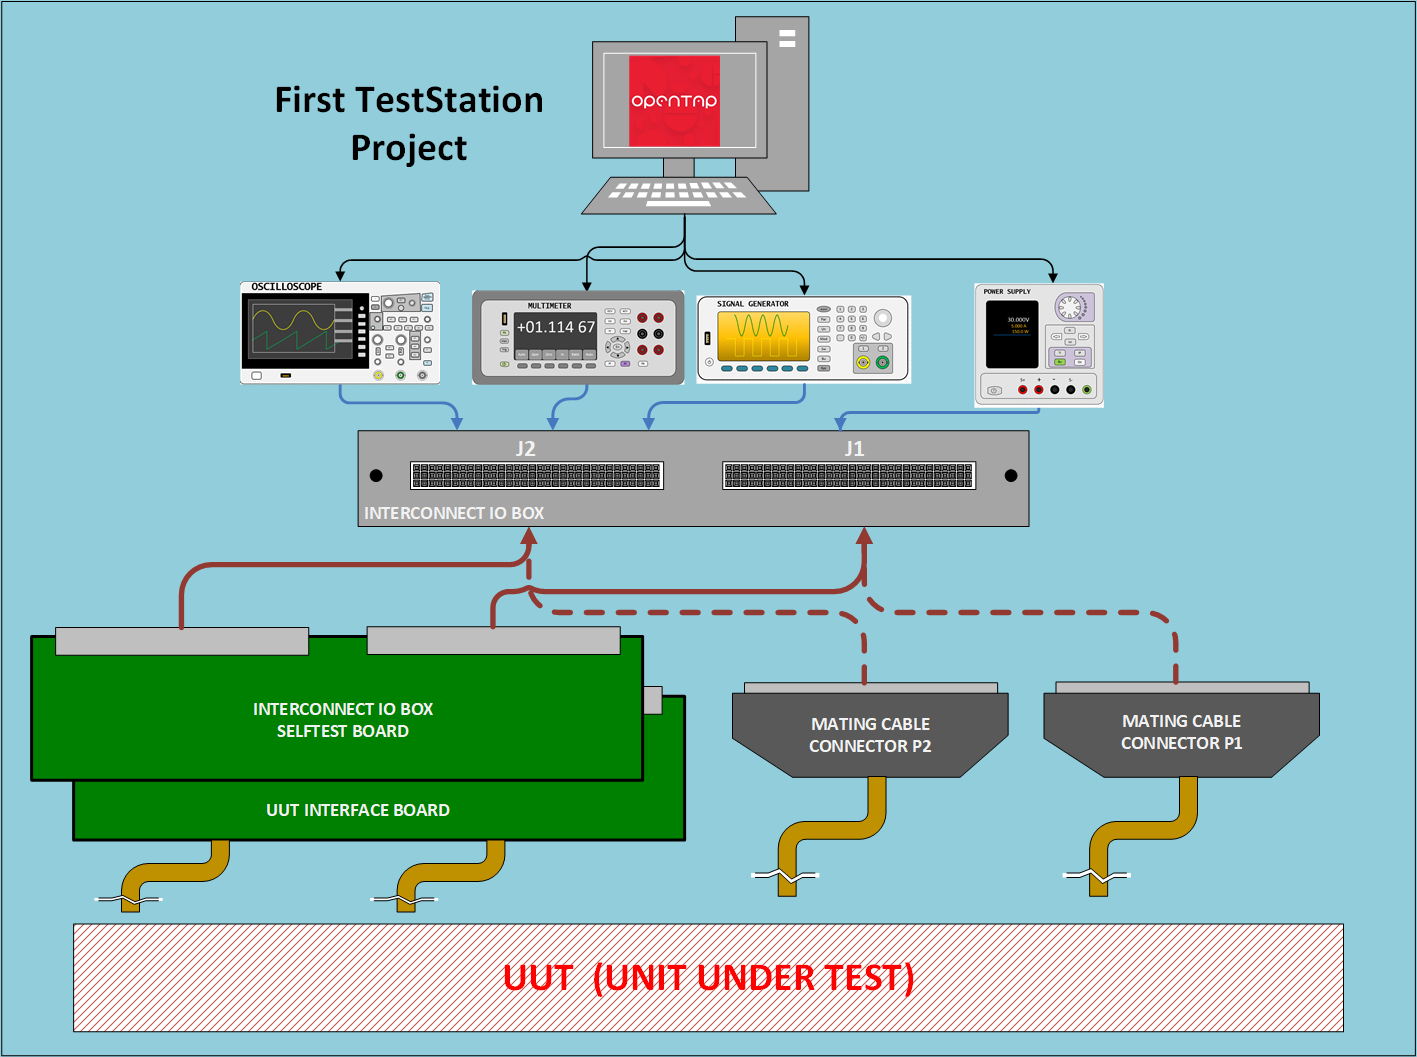
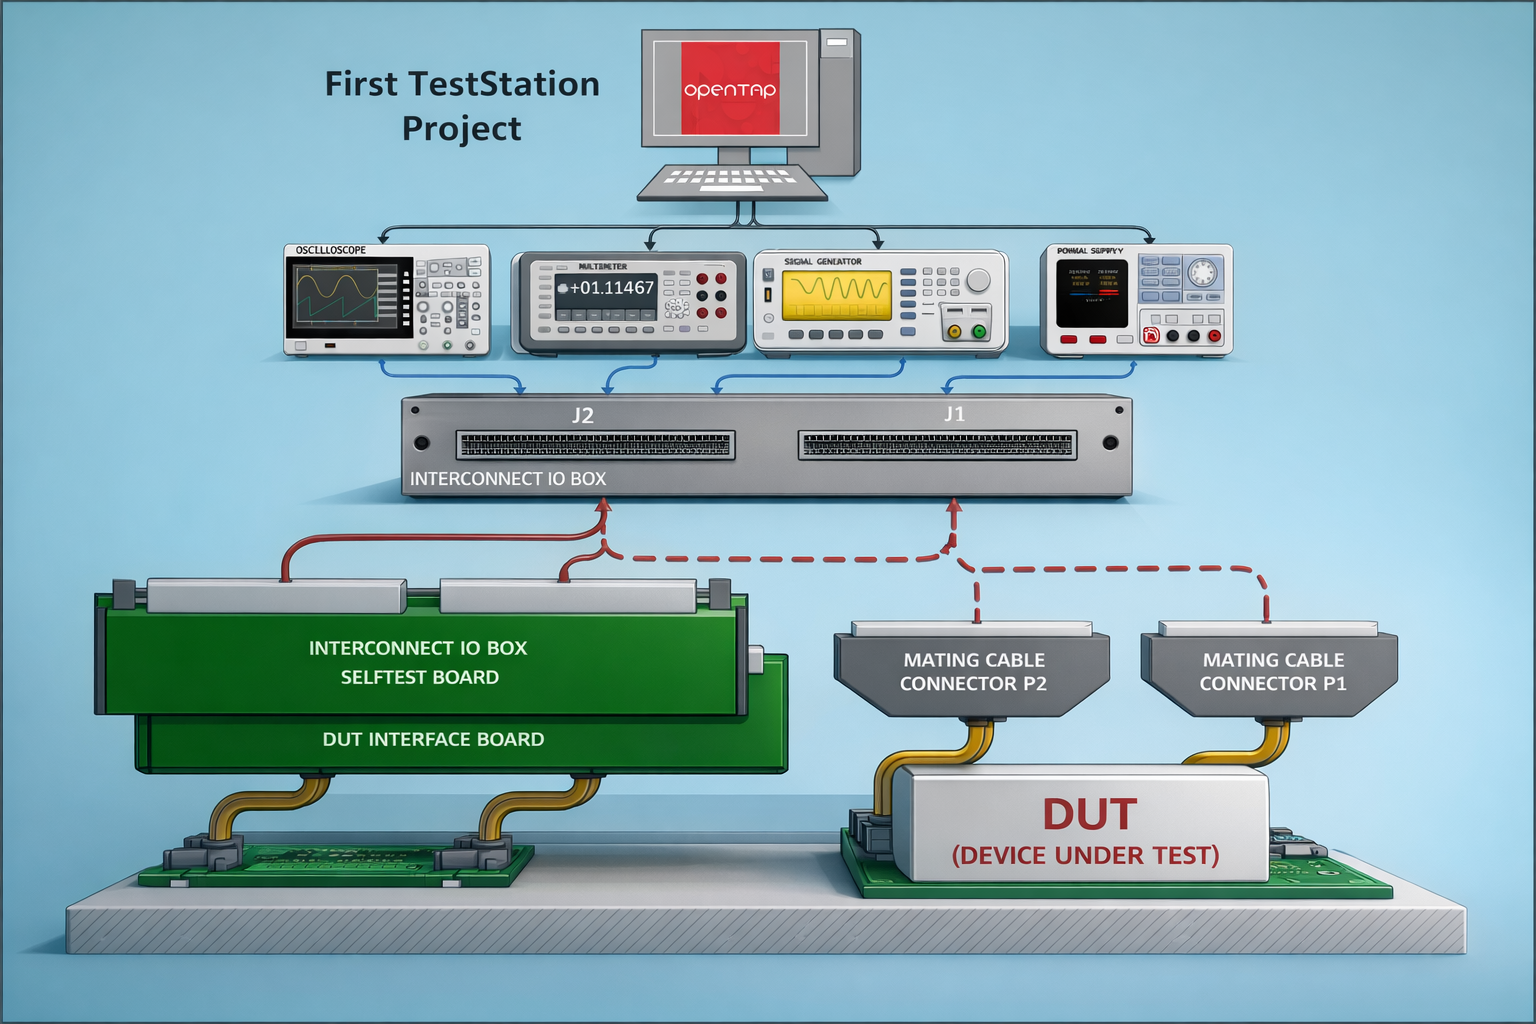
end of year 2025 update

diff --git a/_posts/hardware/2026-01-20-DUT_Fixtures.md b/_posts/hardware/2026-01-20-DUT_Fixtures.md
@@ -1,0 +1,142 @@
+---
+layout: page-fullwidth
+subheadline: "Hardware Interface"
+title:  "InterconnectIO DUT Fixtures"
+teaser: "A presentation of the fixture solutions compatible with the InterconnectIO Box."
+meta_teaser: ""
+breadcrumb: true
+categories:
+    - hardware
+tags:
+    - blog
+    - content
+    - post
+    - post format
+image:
+    title: FirstTestStation.png
+    caption: "InterconnectIO Project"
+    caption_url: https://github.com/FirstTestStation/
+    author: dlock8
+---
+
+## Overview
+
+To interface with a **Device Under Test (DUT)**, a custom connection must be built to bridge the DUT to the resources provided by the **First Test Station (FTS)**. This interface, commonly known as a **Fixture**, can take several formats depending on complexity. 
+
+This page presents three standard fixture architectures used to connect a DUT to the InterconnectIO Box.
+
+## Features
+
+* **Full Compatibility:** Designed specifically for the InterconnectIO Box interface.
+* **Fixture ID Support:** Dedicated physical space for installing Fixture ID identification devices.
+* **Open Documentation:** Complete design files and guides to serve as a standardized starting point.
+* **Version Controlled:** All designs are maintained and documented on GitHub repositories.
+
+---
+
+## DUT_Board
+
+<figure>
+  <img src="../../images/DUT_Board.jpg" alt="Fixture DUT Board">
+  <figcaption>DUT Board Fixture</figcaption>
+</figure>
+
+
+The **DUT_Board** solution utilizes PCB-based interface boards. These are essential when signal conditioning, specialized routing, or active electronics are required between the InterconnectIO system and the DUT.
+
+### Features
+
+- **Plug-and-play compatibility** with InterconnectIO Box
+- **Standardized connector footprints** for reliable interconnection
+- **Reference design files** including schematics and PCB layouts (KiCad)
+- **Mounting hole patterns** for secure mechanical attachment
+- **Example implementations** to accelerate development
+
+### Typical Use Cases
+* Signal buffering and level shifting.
+* Power conditioning and protection circuitry.
+* High-density signal routing.
+* Standardizing interfaces across multiple test platforms.
+* Complex DUT test fixtures requiring active components.
+
+
+> **Expert Note:** In many cases, a custom DUT Board is used to integrate specific electronics not natively available on the First TestStation. To achieve the highest reliability, it is ideal to mount the DUT connector directly onto the DUT Board Fixture. This "wireless" approach eliminates floating cables and significantly improves signal integrity and durability. Utilizing our pre-developed PCB templates can drastically reduce design time for these fixtures.
+
+
+---
+
+## DUT_Cable_Board
+
+<figure>
+  <img src="../../images/Dut_Cable_Board.png" alt="Fixture DUT Cable Board">
+  <figcaption>DUT Cable Board Fixture</figcaption>
+</figure>
+
+The **DUT_Cable_Board** consists of 3D-printed mechanical wiring platforms. These replace traditional PCBs when active electronics are not required. Instead of copper traces, discrete wires and cable harnesses are used to route signals manually.
+
+## Key Features
+- **3D Printed Structure** – Allows for immediate iteration without PCB fabrication lead times.
+- **Connector-Based Interface** – P1, P2 (or other connectors) are securely mounted on the board.
+- **Cable Harness Routing** – Wires are logically routed and bundled, mimicking a physical layout.
+- **Integrated Strain Relief** – Built-in tie-wrap points and mechanical guides to prevent cable stress.
+- **Modular DUT Connection** – Easily adaptable for varying DUT geometries.
+- **Fixture ID Ready** – Dedicated space near the primary connectors for ID device installation.
+
+### Typical Use Cases
+* Passive DUT fixtures requiring no active signal conditioning.
+* Rapid prototyping and proof-of-concept hardware cycles.
+* Manufacturing-grade cable harness routing and management.
+* Modular platforms where wiring needs to be easily serviceable or reconfigurable.
+
+> **Expert Note:** The DUT Cable Board was specifically designed to assist with the mechanical insertion and extraction of the fixture from the InterconnectIO Box. While using wires is a standard connection method, mounting those connectors to a rigid base board—similar to a PCB—dramatically improves long-term reliability. 
+> 
+> Furthermore, installing a **Fixture ID** device might seem like an extra step, but you will appreciate it the moment a DUT fails or a Test Station starts to smoke because the wrong fixture was plugged in. **Always verify your fixture electronically.**
+
+---
+
+## DUT_Cable
+
+<figure>
+  <img src="../../images/DUT_Cable.png" alt="Fixture DUT Cable">
+  <figcaption>DUT Cable Fixture</figcaption>
+</figure>
+
+The **DUT_Cable** solution features minimal, single-connector cable harnesses. This is the most streamlined approach for DUTs requiring only a limited subset of signals, allowing you to bypass the complexity of the full InterconnectIO P1/P2 resource set.
+
+## Key Features
+- **Minimalist Footprint** – Reduced bulk for simple testing requirements.
+- **Direct J1 Integration** – Optimized to utilize the primary J1 connector where specialized resources are concentrated.
+- **High-Speed Prototyping** – No PCB fabrication or complex mechanical assembly required.
+- **Strain Relief Management** – Uses mechanical guides and tie-wraps to ensure connection longevity.
+- **Fixture ID Capability** – Sufficient space remains for electronic fixture identification.
+
+### Typical Use Cases
+* Low-complexity DUTs with minimal pin counts.
+* Dedicated production test jigs for high-volume, simple devices.
+* Early-stage development and benchtop debugging.
+* Focused testing: Power-only, programming-only, or basic communication (UART/USB) interfaces.
+
+> **Expert Note:** The DUT_Cable was specifically designed for scenarios where full station resources are overkill. We strategically grouped the most critical special features onto the **J1 connector** of the InterconnectIO Box. This allows for a "single-connector" interface if you only need to program a DUT or perform basic digital communication. In fact, the DUT_Cable was the primary tool used to validate I2C, SPI, and Serial communication during the initial development of the InterconnectIO Box itself.
+
+---
+
+# FTS Communication Fixture: A True Application Example
+
+The **FTS Communication Fixture** was designed and used as a real-world application to validate the communication protocols available on the **InterconnectIO Box**.
+
+## 🛠 Key Features
+
+- **J1-Focused Design:** Optimized to utilize the high-density digital resources available on the InterconnectIO **J1** port.  
+- **Protocol Support:** Dedicated signal routing for **I2C (SDA/SCL)**, **SPI (MOSI/MISO/SCK/CS)**, and **UART (RX/TX/CTS/RTS)**.  
+- **3D Printed Chassis:** Rapidly deployable mechanical enclosure with integrated cable strain relief.  
+- **Electronic Fixture ID:** Integrated Fixture Identification device to prevent incorrect hardware assignment during automated testing.
+
+> **Expert Note:**  
+> The I2C and SPI protocols were validated using external sensor modules connected via individual flying wires.  
+> Using single-wire connections for each signal ensures compatibility with different module pinouts without requiring fixture modifications.  
+>  
+> In this implementation, the **ADXL345 accelerometer module** was selected because it supports both **SPI and I2C**, making it ideal for dual-protocol validation.  
+> The corresponding OpenTAP test plans are available in the project **FTS Resources Repository**.
+
+{: .t60 }
+{% include list-posts tag='hardware' %}

diff --git a/_posts/software/2025-12-09-OpenTAP_TestPlan_Creation.md b/_posts/software/2025-12-09-OpenTAP_TestPlan_Creation.md
@@ -1,0 +1,69 @@
+---
+layout: page-fullwidth
+subheadline: software
+title:  "TestPlan Creation using OpenTAP Environment"
+teaser: "An overview of the tools used to create and edit OpenTAP test plans"
+meta_teaser: "Creating and managing OpenTAP test plans for production test execution"
+breadcrumb: true
+categories:
+    - software
+tags:
+    - blog
+    - content
+    - post
+    - post format
+image:
+    title: TestPlan_Creation.png
+    thumb: TestPlan_Creation.png
+
+---
+
+---
+## Purpose
+
+A DUT (Device Under Test) is validated using a test sequence, commonly referred to as a Test Plan. A test plan is a collection of test steps executed sequentially to validate the DUT and determine whether the product result is PASS or FAIL.
+
+For the FTS (First Test Station) project, OpenTAP was selected as the test sequencer platform. OpenTAP is an open-source test automation environment that is free to download, install, and use.
+
+
+The fundamentals of test plan creation are well explained in the OpenTAP blog: <a href= "https://blog.opentap.io/opentap-test-plan-creation">OpenTAP TestPlan Creation</a><br>.
+
+Within the FTS project, the Keysight Editor with a community license was used to develop all test plans.
+
+Because the project relies on test instruments such as oscilloscopes, DVMs, and power supplies, the preferred solution was an OpenTAP package provided by Keysight. This package includes instrument configuration and control, the OpenTAP software, the OpenTAP Package Manager, and the OpenTAP Editor for test plan creation under a community license.
+
+For this purpose, the following software package was downloaded and installed: <a href= "https://www.keysight.com/ca/en/lib/software-detail/computer-software/pathwave-test-automation-2796935.html">Test Automation Developer</a><br>.
+
+
+## Recommendations
+
+* Take the time to define a **detailed test plan** before starting to code in OpenTAP. Having a clear understanding of what the test sequence needs to accomplish will greatly facilitate development, validation, and long-term maintenance.
+
+* If external instruments are used, configure them first using **Keysight Connection Expert** or equivalent software. Verify that basic commands (for example, `*IDN?`) return a valid response before integrating the instrument into an OpenTAP test plan.
+
+* In OpenTAP, use **unique names for each Test Step**. Reusing the same name in multiple locations (for example, multiple steps named *Delay*) can cause confusion during test execution and in test reports.
+
+* DUTs (Device Under Test) must be defined for each product. The **Device Name** and **Product Name** are included in the test report. DUT definitions are provided through plugins, as no standard DUT definition exists in OpenTAP. However, the **InterconnectIO plugin** includes a preliminary definition for generic DUTs, which may be used if the project DUT is compatible.
+
+* Use a **Serial Number** to uniquely identify each DUT and to generate unique test reports. A Test Step available in the **InterconnectIO plugin** forces the operator to enter a serial number. This serial number can also be validated through the Test Step settings.
+
+* For each Test Step, replace the default description text in the Test Step settings with a **custom, detailed explanation** describing the purpose of the step. Over time, this documentation helps production operators understand how the product is tested and significantly assists with debugging defective units.
+
+## OpenTAP References & Examples
+
+- **OpenTAP Test Plan Overview** — description of test plans and XML structure.  
+  <a href="https://doc.opentap.io/User%20Guide/Introduction/Readme.html" target="_blank">OpenTAP Test Plan Overview</a>
+
+- **OpenTAP Test Plan Creation Tools** — blog covering editors and workflows to build test plans.  
+  <a href="https://blog.opentap.io/opentap-test-plan-creation" target="_blank">OpenTAP Test Plan Creation Tools</a>
+
+- **OpenTAP Getting Started** — official documentation for setup and basics.  
+  <a href="https://doc.opentap.io/" target="_blank">OpenTAP Getting Started</a>
+
+- **Automate Test Plans with PathWave Test Automation** — workflow demo of test plan creation.  
+  <a href="https://www.youtube.com/watch?v=cNEi_Ldwzbw" target="_blank">Automate Test Plans with PathWave Test Automation (YouTube)</a>
+
+
+{: .t60 }
+
+{% include list-posts tag='software' %}

diff --git a/_posts/software/2026-01-19-OperatorGUI_Plugin.md b/_posts/software/2026-01-19-OperatorGUI_Plugin.md
@@ -1,0 +1,74 @@
+---
+layout: page-fullwidth
+subheadline: software
+title:  "OpenTAP Operator GUI"
+teaser: "The Operator GUI is a test sequencer execution interface intended for use in production. It controls the execution of OpenTAP test plans, guides the operator through required actions, and provides clear real-time status and pass/fail results."
+meta_teaser: "A production operator interface for executing OpenTAP test sequences in a manufacturing environment."
+breadcrumb: true
+categories:
+    - software
+tags:
+    - blog
+    - content
+    - post
+    - post format
+image:
+    title: Operator_GUI.png
+    thumb: Operator_GUI.png
+
+---
+
+---
+
+## Purpose
+
+FTS Operator Graphical User Interface (GUI) is an open-source application designed to run OpenTAP TestPlans in a production environment. This Windows WPF application is intentionally simple, requiring minimal operator training.
+
+Operators can select the TestPlan to execute, start the test, and follow its progress in real time. The live log window displays OpenTAP output, and the Test Execution panel clearly indicates which steps pass and which fail.
+
+Originally, the plan was to use the OpenTAP Keysight Test Automation Editor with the Community License to run the TestPlans associated with the First Test Station (FTS) project. However, the Keysight Editor is a development tool—not a production tool. While it is excellent for creating TestPlans or debugging defective DUTs (Devices Under Test), it is too flexible and complex for routine production use.
+
+Based on my years of experience in production test engineering—and with the help of modern AI tools—the decision was made to create a dedicated operator-focused GUI. The result is a streamlined, production-ready application.
+
+Designed primarily for the FTS project, most testing and validation has been performed using the custom InterconnectIO plugin developed for this environment. This application is open source and intended to help small businesses access better tools for production testing.
+
+## ✨ Key Features
+
+### 1. 🖼 Modern User Interface (UI)
+
+* **Technology:** Built on the Windows Presentation Foundation (WPF) framework
+* **Design:** Designed using the popular **Material Design in XAML** library for a clean, modern, and professional aesthetic
+* **Themes:** Themes: Modern color themes allow users to switch between light and dark backgrounds
+
+### 2. 🧪 Test Execution Support
+
+* **Test Plan Selection (TapPlan):** OpenTAP Test Plans, saved as `.TapPlan` files, are the primary method used to select and initiate testing sequences
+* **Configuration (TapSetting):** The hardware environment and Device Under Test (DUT) configuration are dynamically defined by reading the associated **TapSettings** file, ensuring consistency across test runs
+* **Integration** TapSettings can be integrated into TapPlan by using a special test step to load a single file (.TapPlan) that contains all information 
+
+### 3. 🏷 Production Readiness & Traceability
+
+* **Serial Number Integration:** The application strongly encourages the use of **Serial Numbers**, which serve as the key identifier for comprehensive **production traceability** and logging
+* **Plugin Validation:** Automates test sequences, validates the presence of necessary OpenTAP plugins, and provides clear warnings to operators if required plugins are missing before execution begins
+
+### 4. 📊 Real-time Monitoring
+
+* **Test Progress Tracking:** Visual indicators show pass/fail status for each test step with detailed metrics including values and limit comparisons
+* **Result Summary:**  Clear pass/fail counters with debug, info, warning, and error message tracking. Real-time execution messages from OpenTAP listeners are sent to the status box where messages can be filtered by type
+
+### 5. 🎨 Customization
+
+* **Dynamic Logo Loading:** Allows integration of a custom **Company Logo** to visually associate the application with the manufacturing company
+
+
+## Plugin Location
+
+The plugin source code is hosted on the official GitHub repository. In the future, the **Operator_GUI** plugin may also be made available directly through the **OpenTAP Package Manager** for easier installation and updates.
+
+🔗 [OpenTAP Operator GUI](https://github.com/FirstTestStation/FTS_OperatorGUI)
+
+
+
+{: .t60 }
+
+{% include list-posts tag='software' %}

diff --git a/pages/documentation.md b/pages/documentation.md
@@ -10,19 +10,32 @@ header:
 
 
 📦 100-1000-xxx First TestStation Project 🔗[repositories](https://github.com/FirstTestStation/First_TestStation)<br>
-|
+|<br>
 ├── 🌐 150-1000-xxx FTS Website 🔗[Repository](https://FirstTestStation.github.io/FTS_Website/)<br>
-│
-├── 📁 InterconnectIO<br>
+│<br>
+├── 🔌 InterconnectIO<br>
 │   ├── 🧱 500-1000-xxx InterconnectIO Box 🔗[Repository](https://github.com/FirstTestStation/InterconnectIO_Box)<br>
 │   ├── 🧩 600-1000-xxx InterconnectIO Board 🔗[Repository](https://github.com/FirstTestStation/InterconnectIO_Board)<br>
 │   ├── 🧠 700-2000-xxx Firmware InterconnectIO Master 🔗[Repository](https://github.com/FirstTestStation/InterconnectIO_Master_Firmware)<br>
 │   └── 🧠 700-2001-xxx Firmware InterconnectIO Slave 🔗[Repository](https://github.com/FirstTestStation/InterconnectIO_Slave_Firmware)<br>
-│
-├── 📁 Selftest<br>
+│<br>
+├── 🧪 Selftest<br>
 │   ├── 🧩 600-1010-xxx Selftest Board 🔗[Repository](https://github.com/FirstTestStation/Selftest_Board)<br>
 │   └── 🧠 700-2010-xxx Firmware Selftest Board 🔗[Repository](https://github.com/FirstTestStation/Selftest_code_Firmware)<br>
-|
-├── 📁 OpenTAP<br>
+|<br>
+├── 🛠 OpenTAP<br>
 │   ├── 🧭 800-1010-xxx OpenTAP Selftest Test Plan 🔗[Repository](https://github.com/FirstTestStation/FTS_Selftest_OpenTAP_TestPlan)<br>
-│   └── 🔌 800-1020-xxx OpenTAP InterconnectIO Box Plugin 🔗[Repository](https://github.com/FirstTestStation/FTS_InterconnectIOBox_OpenTAP_Plugin)<br>
+│   └── 🔌 800-1015-xxx OpenTAP Operator GUI 🔗[Repository](https://github.com/FirstTestStation/FTS_OperatorGUI)<br>
+│   └── 🔌 800-1100-xxx OpenTAP InterconnectIO Box Plugin 🔗[Repository](https://github.com/FirstTestStation/FTS_InterconnectIOBox_OpenTAP_Plugin)<br>
+|<br>
+├── 🧰 🧩 InterconnectIO DUT Fixture 🔗[Repository](https://github.com/FirstTestStation/InterconnectIO_DUT_Fixtures)<br>
+│   ├── 🧱 660-1020-xxx Dut Board Fixture <br>
+│   ├── 🧱 550-1000-xxx Dut Cable Board Fixture <br>
+│   ├── 🧱 550-1010-xxx Dut Cable Fixture<br>
+│   ├── 🧱 550-1011-xxx FTS Communication Fixture (I2C/SPI/Serial)<br>
+|<br>
+├── 🧰 🧭 FTS Project Resources 🔗[Repository](https://github.com/FirstTestStation/FTS_Project_Resources)<br>
+│   ├── 🧭 900-1000-xxx FTS TestCases <br>
+│   ├── 🧭 900-1100-xxx I2C_Module_ADXL345 Test Plan <br>
+|   ├── 🧭 900-1110-xxx SPI_Module_ADXL345 Test Plan <br>
+

diff --git a/_posts/documentation/2024-12-14-project-gallery.md b/_posts/documentation/2024-12-14-project-gallery.md
@@ -39,7 +39,7 @@ gallery:
     - image_url: gallery-image-19.jpg
       caption: Operator Menu for built-in selftest
     - image_url: gallery-image-22.jpg
-      caption: Sefltest running on serial interface and on diagnostic monitor
+      caption: Selftest running on serial interface and on diagnostic monitor
     - image_url: gallery-image-20.jpg
       caption: Selftest completed without errors
     - image_url: gallery-image-50.jpg
